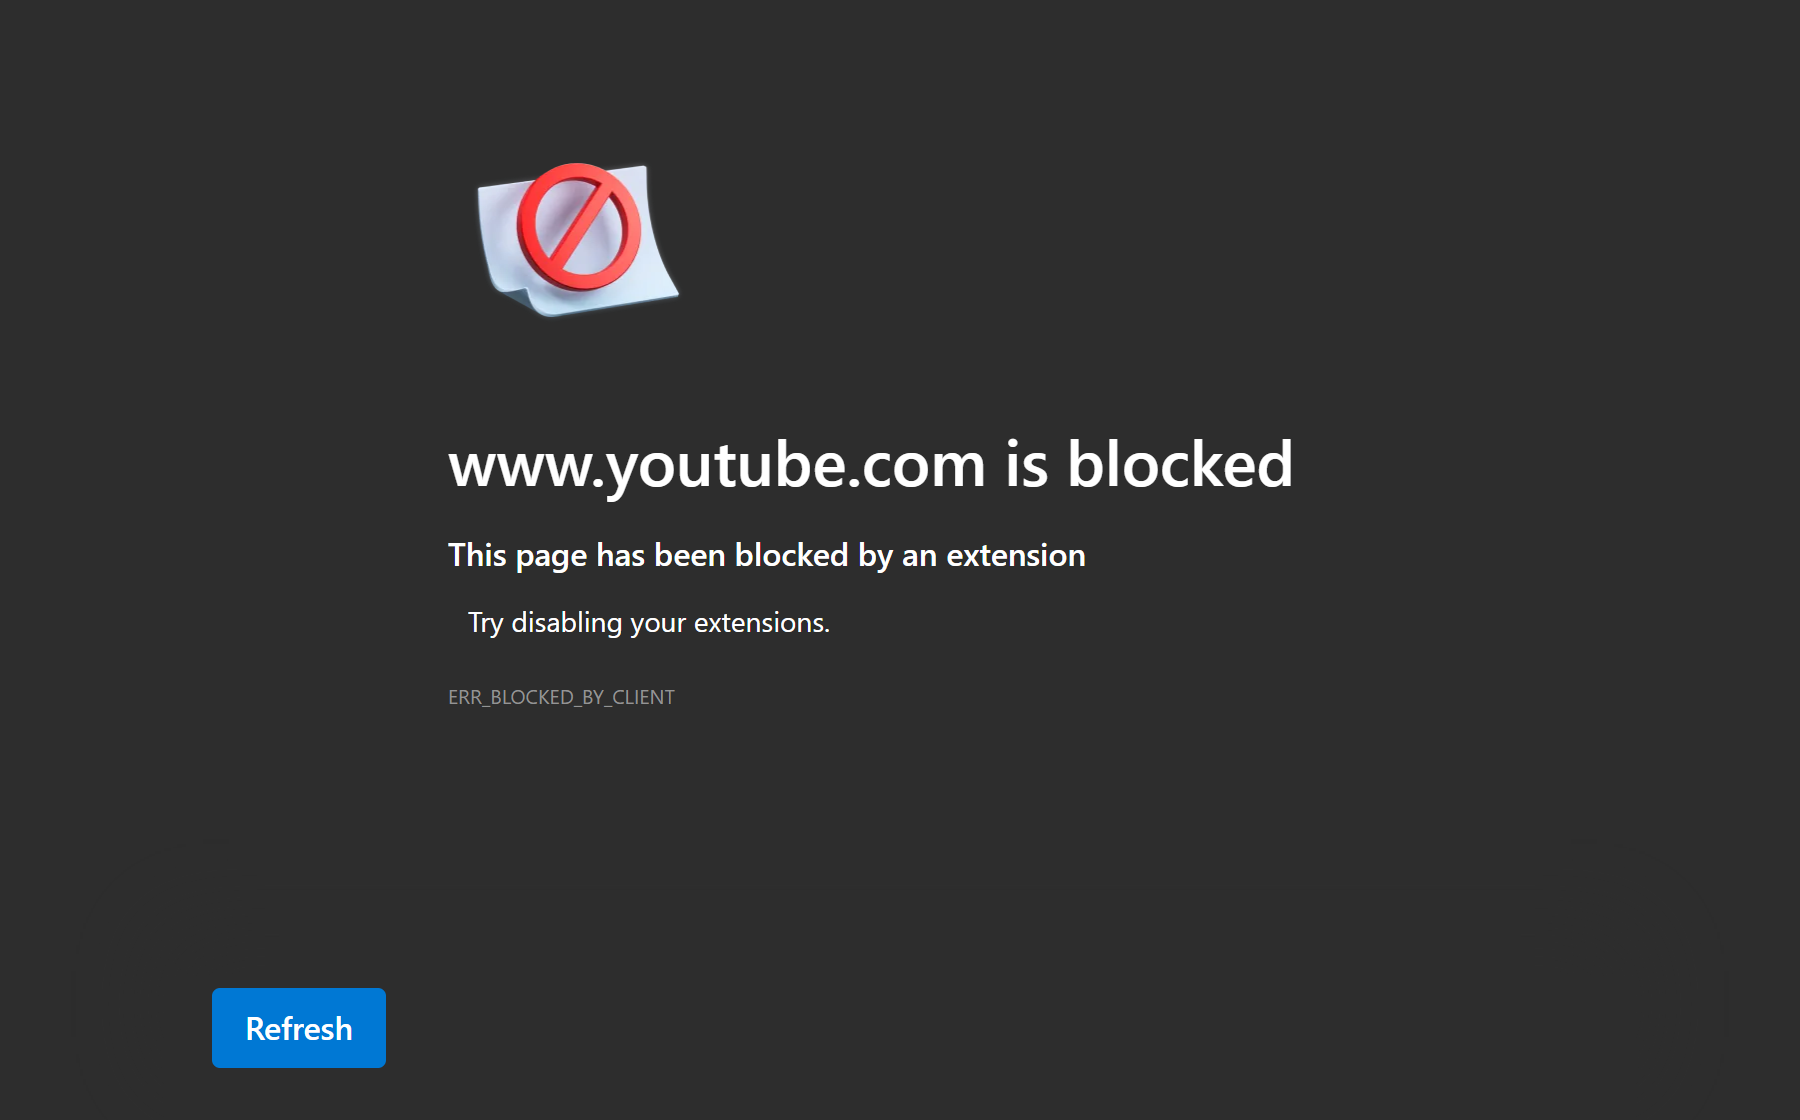
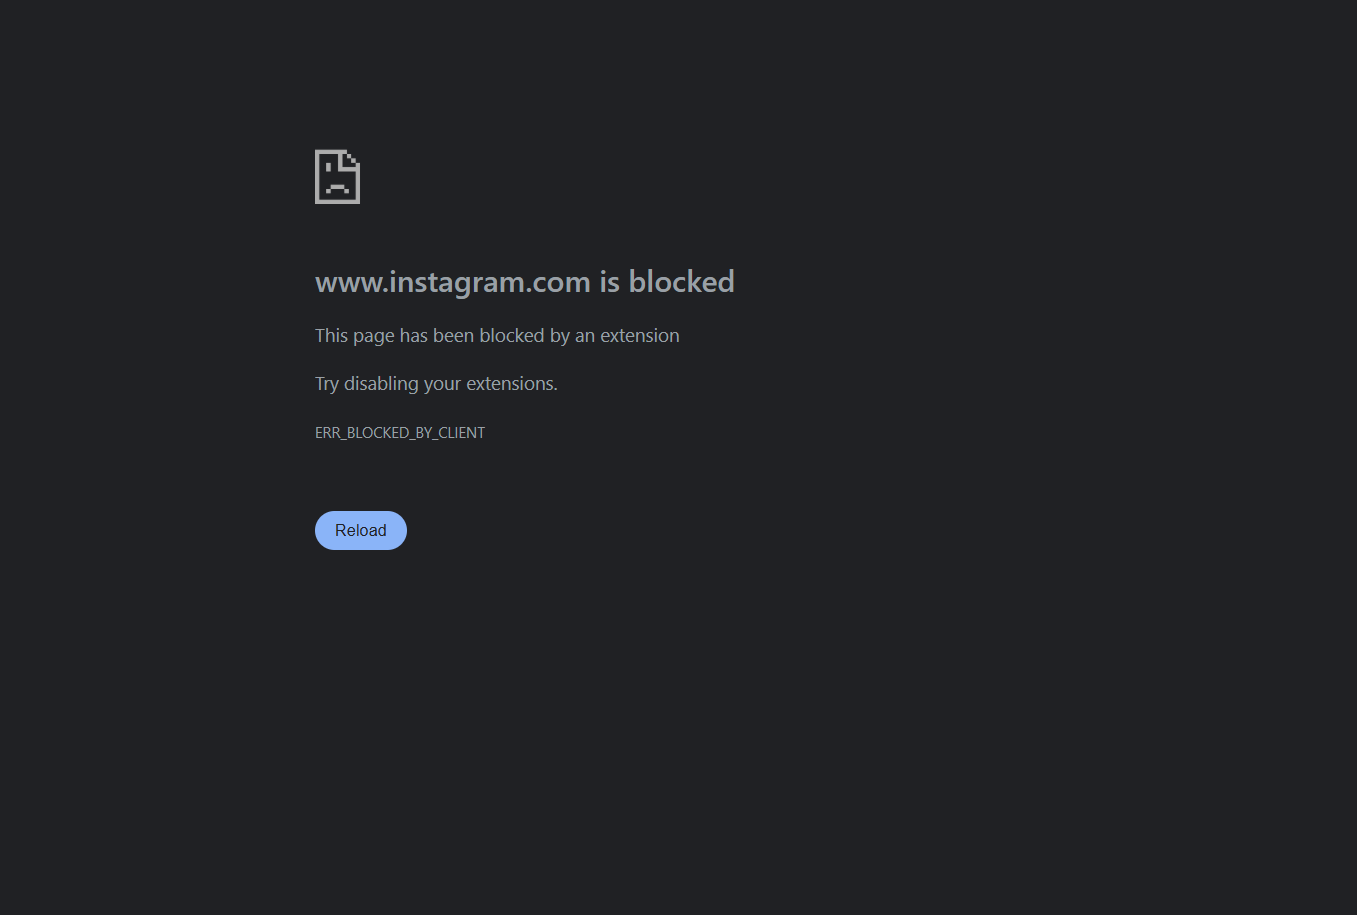
Use the Chrome blocked-page screenshot on the Recall page

diff --git a/src/RecallReport.tsx b/src/RecallReport.tsx
@@ -32,7 +32,7 @@ const stack = [
   ['Computer vision', 'MediaPipe Face Landmarker running as WebAssembly in the browser'],
   ['Files', 'pdf.js to read PDFs and jsPDF to write them, both in the browser'],
   ['Backend', 'Java 21, Spring Boot, JDBC with HikariCP, PDFBox, Maven, PostgreSQL'],
-  ['Testing and CI', '61 Node tests and 36 JUnit tests, ESLint and GitHub Actions on every push'],
+  ['Testing and CI', '60 Node tests and 36 JUnit tests, ESLint and GitHub Actions on every push'],
 ]
 
 const security = [
@@ -51,7 +51,7 @@ export function RecallReport() {
   return <section className="telemetry-report" aria-label="Recall project report">
     <section className="project-photo-section project-media-section" aria-label="Recall screenshots"><h2>Screens</h2>
       <div className="recall-shot-grid">{shots.map(shot => <figure key={shot.file}><a href={`/projects/recall/${shot.file}`} target="_blank" rel="noreferrer" aria-label={`Open ${shot.title.toLowerCase()} screenshot`}><img src={`/projects/recall/${shot.file}`} alt={`Recall ${shot.title}: ${shot.caption}`} width="840" height="1680" loading="lazy"/></a><figcaption><strong>{shot.title}</strong>{shot.caption}</figcaption></figure>)}</div>
-      <figure className="project-media-figure"><a href="/projects/recall/08-blocked-page.png" target="_blank" rel="noreferrer" aria-label="Open blocked page screenshot"><img src="/projects/recall/08-blocked-page.png" alt="The browser refusing to open youtube.com because it was blocked by the Recall extension" loading="lazy"/></a><figcaption>With blocking on, opening youtube.com is stopped by the browser before the page loads</figcaption></figure>
+      <figure className="project-media-figure"><a href="/projects/recall/08-blocked-page.png" target="_blank" rel="noreferrer" aria-label="Open blocked page screenshot"><img src="/projects/recall/08-blocked-page.png" alt="Chrome refusing to open www.instagram.com because it was blocked by the Recall extension" width="1357" height="915" loading="lazy"/></a><figcaption>With blocking on, Chrome stops instagram.com before the page loads. Every request to a blocked domain is refused, so sites like YouTube that load from their own cache can't fetch any content either</figcaption></figure>
     </section>
 
     <section className="telemetry-validation"><h2>Why I built this</h2>
